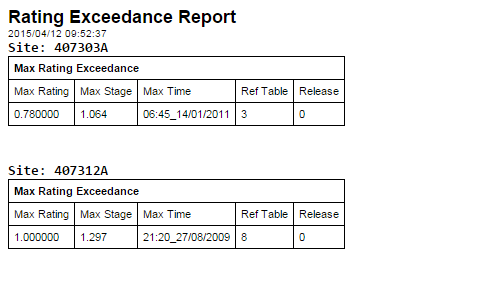
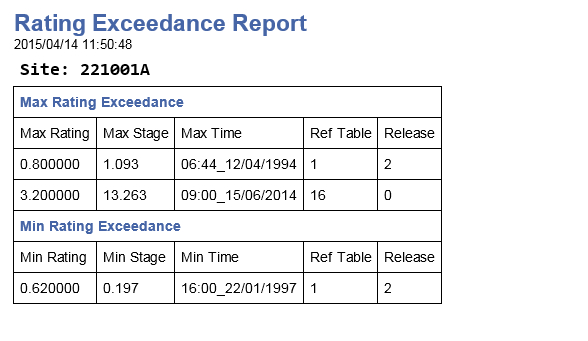
new report output look

Changed region(s): [[0.0, 0.0285, 0.7637, 0.911]]

diff --git a/README.md b/README.md
@@ -16,6 +16,14 @@ It emulates the type of output produced by a program like HYCSV's HYDSYS.ERR rep
 
 This script enables all the exceedences to be assembled and output to one, email compliant, html report. The html output can be imported into an email script and sent weekly.
 
+# Phased Ratings Logic
+
+If the scripts finds a phased rating it;
+
+1. Looks forward until the next non-phased rating and takes that rating as the end point for the current rating
+2. Takes the phased rating date as the start date for the next rating
+3. Uses the dll to get the max & min for the entire duration of the phasing dates
+
 # Output Report
 
 ![Output Report](/images/report.png)
